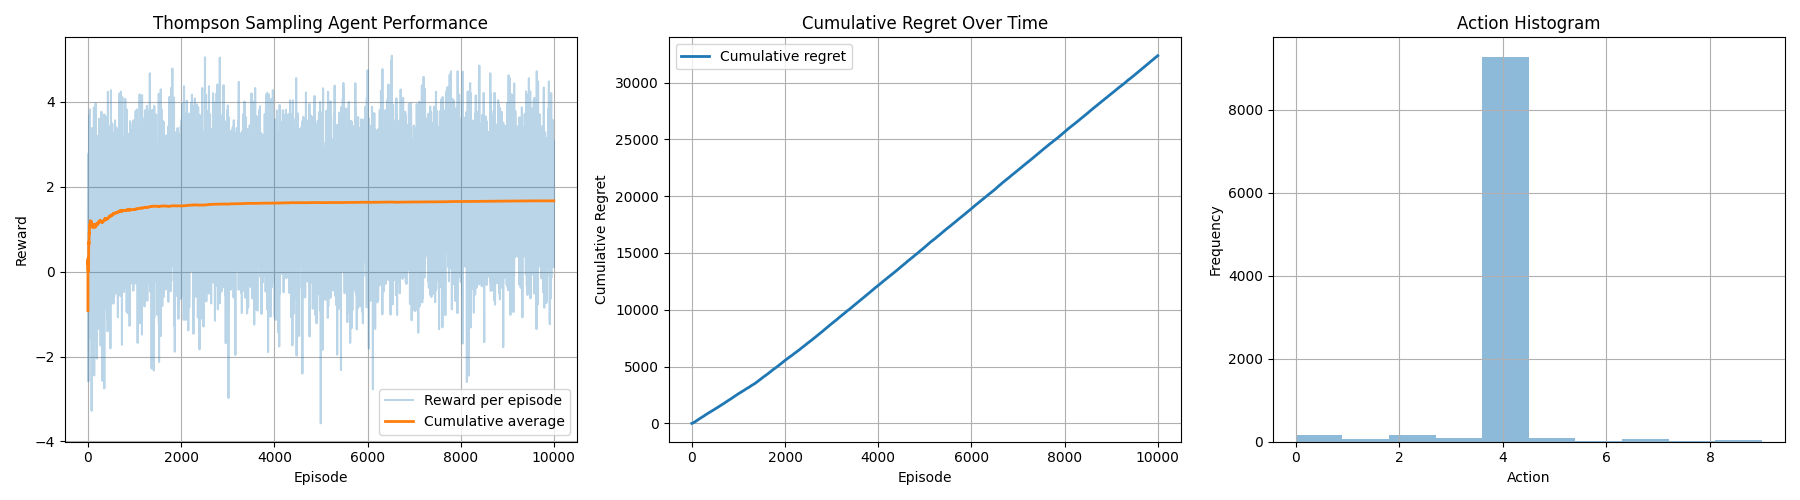
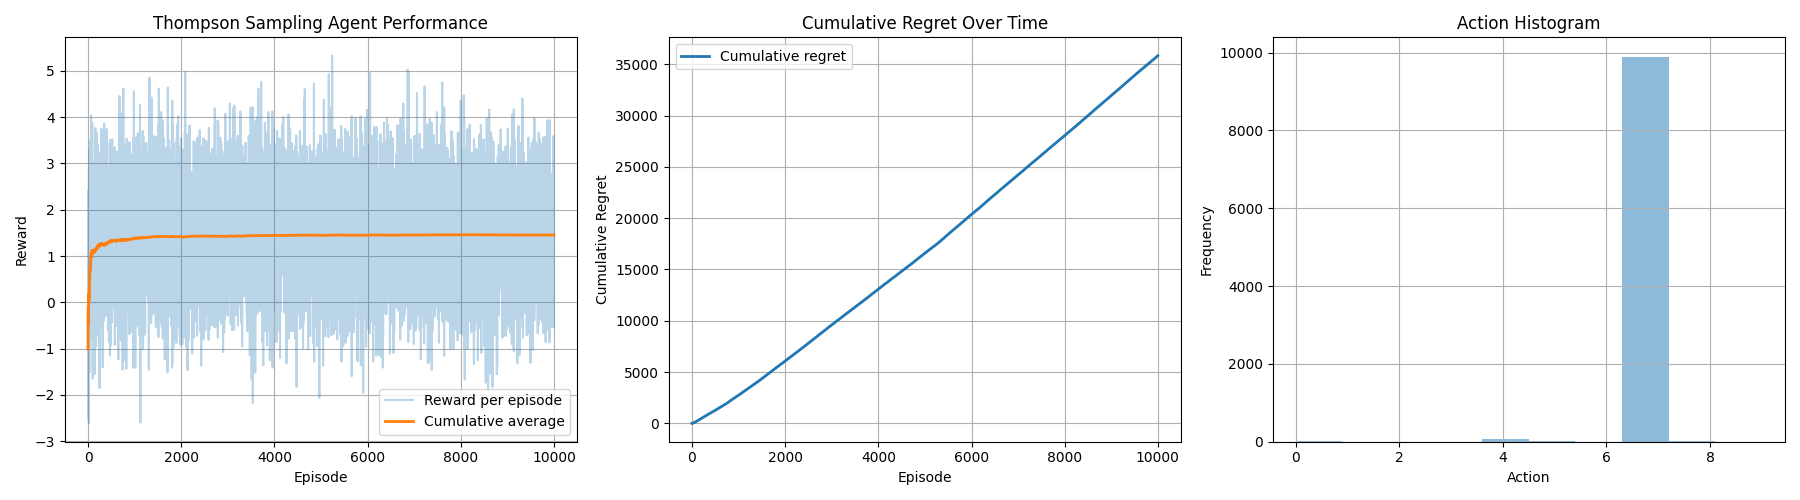
Refactor Thompson Sampling agent to utilize normal posterior distribution for action selection. Remove beta distribution normalization and update reward estimation logic. Adjust training loop to handle action selection and reward updates more efficiently. Update visualization to reflect changes in r

diff --git a/thompson_sampling.py b/thompson_sampling.py
@@ -6,10 +6,9 @@
 
 # so here we need to store a history of actions and rewards
 # and then use that history to select the action
-# we need to use the beta distribution to sample the action
-# and then update the history with the reward
-# and then use the history to select the action
-# and then update the history with the reward
+# for gaussian rewards, we use normal posterior distribution instead of beta
+# we sample from each arm's posterior (normal distribution with mean = sample mean, variance = 1/n)
+# and then pick the arm with the highest sample (thompson sampling)
 
 import gym
 import gym_bandits
@@ -21,45 +20,33 @@ class ThompsonSamplingAgent:
         # super().__init__()
         self.n_actions = n_actions
         self.history = []
-        self.alpha = np.ones(n_actions)
-        self.beta = np.ones(n_actions)
-        # For normalizing rewards to [0, 1] range for beta distribution
-        self.min_reward = None
-        self.max_reward = None
+        self.sum_rewards = np.zeros(n_actions)
+        self.action_counts = np.zeros(n_actions)
+        self.posterior_std = 1.0
 
     def select_action(self):
-        return np.argmax(np.random.beta(self.alpha, self.beta))
-
-    def normalize_reward(self, reward):
-        """Normalize reward to [0, 1] range for beta distribution."""
-        # Initialize min/max on first reward
-        if self.min_reward is None:
-            self.min_reward = reward
-            self.max_reward = reward
-
-        # Update min/max
-        self.min_reward = min(self.min_reward, reward)
-        self.max_reward = max(self.max_reward, reward)
-
-        # Normalize to [0, 1] with small epsilon to avoid edge cases
-        if self.max_reward == self.min_reward:
-            return 0.5  # Return middle value if all rewards are the same
-        normalized = (reward - self.min_reward) / (self.max_reward - self.min_reward)
-        # Clip to [0, 1] to be safe
-        return np.clip(normalized, 0.0, 1.0)
+        samples = np.zeros(self.n_actions)
+        for a in range(self.n_actions):
+            n = self.action_counts[a]
+            if n == 0:
+                samples[a] = 0.0
+            else:
+                mean = self.sum_rewards[a] / n
+                var = self.posterior_std**2 / n
+                samples[a] = np.random.normal(mean, np.sqrt(var))
+        # Pick arm with highest sample (this balances exploration and exploitation)
+        return np.argmax(samples)
 
     def update_estimates(self, action, reward):
+        # Store history for histogram visualization
         self.history.append((action, reward))
-        normalized_reward = self.normalize_reward(reward)
-        self.alpha[action] += normalized_reward
-        self.beta[action] += 1 - normalized_reward
-        # Ensure alpha and beta stay positive (shouldn't happen with normalization, but safety check)
-        self.alpha[action] = max(self.alpha[action], 0.01)
-        self.beta[action] = max(self.beta[action], 0.01)
+        # Update count and sum for posterior calculation
+        self.action_counts[action] += 1
+        self.sum_rewards[action] += reward
+        # No need for alpha/beta with normal posterior - conjugate update is implicit in select_action
 
 def train_thompson_sampling_agent(env_name='BanditTenArmedGaussian-v0', n_episodes=1000):
     env = gym.make(env_name)
-    # env.seed(42)
     env.reset()
     np.random.seed(42)
     n_actions = env.action_space.n
@@ -70,7 +57,10 @@ def train_thompson_sampling_agent(env_name='BanditTenArmedGaussian-v0', n_episod
     regrets = []
     cumulative_regret = []
 
-    true_means = env.means if hasattr(env, 'means') else None
+    true_means = env.env.means if hasattr(env.env, 'means') else None
+    if true_means is None:
+        # fallback to direct env.means if not nested
+        true_means = env.means if hasattr(env, 'means') else None
     if true_means is None:
         true_means = getattr(env, 'mu', None)
     if true_means is None:
@@ -81,7 +71,20 @@ def train_thompson_sampling_agent(env_name='BanditTenArmedGaussian-v0', n_episod
 
     optimal_reward = np.max(true_means) if true_means is not None else None
 
-    for episode in range(n_episodes):
+    for a in range(n_actions):
+        reward = env.step(a)[1]
+        agent.update_estimates(a, reward)
+        rewards.append(reward)
+        cumulative_avg = np.mean(rewards)
+        cumulative_avg_rewards.append(cumulative_avg)
+        if optimal_reward is not None:
+            regret = optimal_reward - reward
+        else:
+            regret = 0
+        regrets.append(regret)
+        cumulative_regret.append(np.sum(regrets))
+
+    for episode in range(n_actions, n_episodes):
         action = agent.select_action()
         reward = env.step(action)[1]
         agent.update_estimates(action, reward)

diff --git a/test.py b/test.py
@@ -1,0 +1,7 @@
+import gym
+import gym_bandits
+
+env = gym.make('BanditTenArmedGaussian-v0')
+env.reset()
+
+print(str(env.unwrapped['BanditTenArmedGaussian']))
